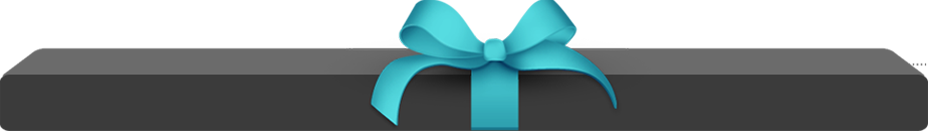
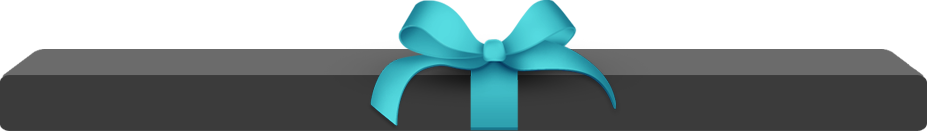
[Portada] Moño en el TOP

diff --git a/public/stylesheets/screen.css b/public/stylesheets/screen.css
@@ -94,12 +94,13 @@ ul {
 /* line 20, ../../app/stylesheets/partials/_base.scss */
 body {
   background: url("../images/background.png");
+  margin: 10px 0 0 0;
   color: white;
   font-family: Lucida Grande;
   font-size: 12.66px;
 }
 
-/* line 25, ../../app/stylesheets/partials/_base.scss */
+/* line 26, ../../app/stylesheets/partials/_base.scss */
 body a {
   color: white;
   font-family: Lucida Grande;
@@ -107,29 +108,29 @@ body a {
   text-decoration: none;
 }
 
-/* line 30, ../../app/stylesheets/partials/_base.scss */
+/* line 31, ../../app/stylesheets/partials/_base.scss */
 body a:hover {
   color: #65cde2;
   font-family: Lucida Grande;
   font-size: 12.66px;
 }
 
-/* line 34, ../../app/stylesheets/partials/_base.scss */
+/* line 35, ../../app/stylesheets/partials/_base.scss */
 .clearBoth {
   clear: both;
 }
 
-/* line 38, ../../app/stylesheets/partials/_base.scss */
+/* line 39, ../../app/stylesheets/partials/_base.scss */
 .emptyField {
   border: solid 3px #FF0000 !important;
 }
 
-/* line 42, ../../app/stylesheets/partials/_base.scss */
+/* line 43, ../../app/stylesheets/partials/_base.scss */
 #box-content {
   display: none;
 }
 
-/* line 46, ../../app/stylesheets/partials/_base.scss */
+/* line 47, ../../app/stylesheets/partials/_base.scss */
 .button-blue {
   background-color: #4CD3EC;
   border: 3px solid #28CAE8;
@@ -142,7 +143,7 @@ body a:hover {
   width: 120px;
 }
 
-/* line 58, ../../app/stylesheets/partials/_base.scss */
+/* line 59, ../../app/stylesheets/partials/_base.scss */
 h1 {
   background-color: #DFF3F7;
   color: #23B8D1;
@@ -152,7 +153,7 @@ h1 {
   width: 260px;
 }
 
-/* line 67, ../../app/stylesheets/partials/_base.scss */
+/* line 68, ../../app/stylesheets/partials/_base.scss */
 #header {
   background: url("../images/home_header.png") no-repeat;
   display: block;
@@ -160,7 +161,7 @@ h1 {
   width: 927px;
   margin: 0 auto;
 }
-/* line 74, ../../app/stylesheets/partials/_base.scss */
+/* line 75, ../../app/stylesheets/partials/_base.scss */
 #header #login {
   float: right;
   color: #23B8D1;
@@ -168,25 +169,25 @@ h1 {
   margin: 80px 20px 0 0;
   padding: 15px 10px 10px;
 }
-/* line 82, ../../app/stylesheets/partials/_base.scss */
+/* line 83, ../../app/stylesheets/partials/_base.scss */
 #header #login ul#login-links li {
   float: left;
   margin: 0  0 0 31px;
 }
-/* line 88, ../../app/stylesheets/partials/_base.scss */
+/* line 89, ../../app/stylesheets/partials/_base.scss */
 #header #login #user-menu {
   background: url(../images/arrow-dropdown.png) no-repeat right;
   padding: 0 20px 0 0;
   cursor: pointer;
 }
-/* line 93, ../../app/stylesheets/partials/_base.scss */
+/* line 94, ../../app/stylesheets/partials/_base.scss */
 #header #login #user-menu img {
   border: 3px solid #23B8D1;
   -moz-border-radius: 5px;
   -webkit-border-radius: 5px;
   margin: -10px 0;
 }
-/* line 101, ../../app/stylesheets/partials/_base.scss */
+/* line 102, ../../app/stylesheets/partials/_base.scss */
 #header #login #menu-content {
   background: #292929;
   position: absolute;
@@ -194,14 +195,14 @@ h1 {
   z-index: 1000;
   margin: 10px 0 0 -10px;
 }
-/* line 108, ../../app/stylesheets/partials/_base.scss */
+/* line 109, ../../app/stylesheets/partials/_base.scss */
 #header #login #menu-content li {
   background: #5e5e5e;
   margin: 0 0 0 10px;
   float: left;
   list-style: none;
 }
-/* line 114, ../../app/stylesheets/partials/_base.scss */
+/* line 115, ../../app/stylesheets/partials/_base.scss */
 #header #login #menu-content li a {
   color: #23B8D1;
   font-size: 14px;
@@ -210,20 +211,20 @@ h1 {
   width: 100%;
   padding: 0;
 }
-/* line 124, ../../app/stylesheets/partials/_base.scss */
+/* line 125, ../../app/stylesheets/partials/_base.scss */
 #header #login #menu-content li#last {
   margin-bottom: 10px;
 }
-/* line 128, ../../app/stylesheets/partials/_base.scss */
+/* line 129, ../../app/stylesheets/partials/_base.scss */
 #header #login #menu-content li:hover {
   background: #797979;
 }
-/* line 135, ../../app/stylesheets/partials/_base.scss */
+/* line 136, ../../app/stylesheets/partials/_base.scss */
 #header #label-beta {
   float: left;
   margin: 128px 0 0 -31px;
 }
-/* line 140, ../../app/stylesheets/partials/_base.scss */
+/* line 141, ../../app/stylesheets/partials/_base.scss */
 #header #logo {
   float: left;
   margin: 16px 0 0 -39px;

diff --git a/app/stylesheets/partials/_base.scss b/app/stylesheets/partials/_base.scss
@@ -19,6 +19,7 @@ ul {
 
 body {
   background: url('../images/background.png');
+  margin: 10px 0 0 0;
   @include regular-text;
 }
 
